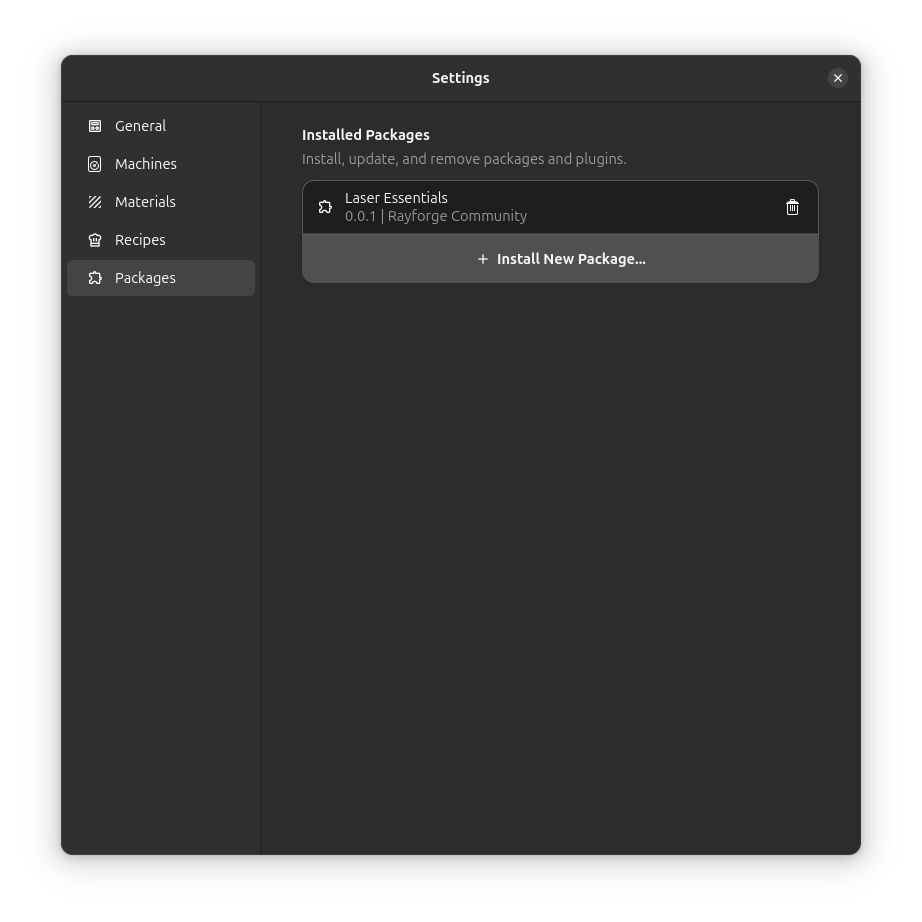
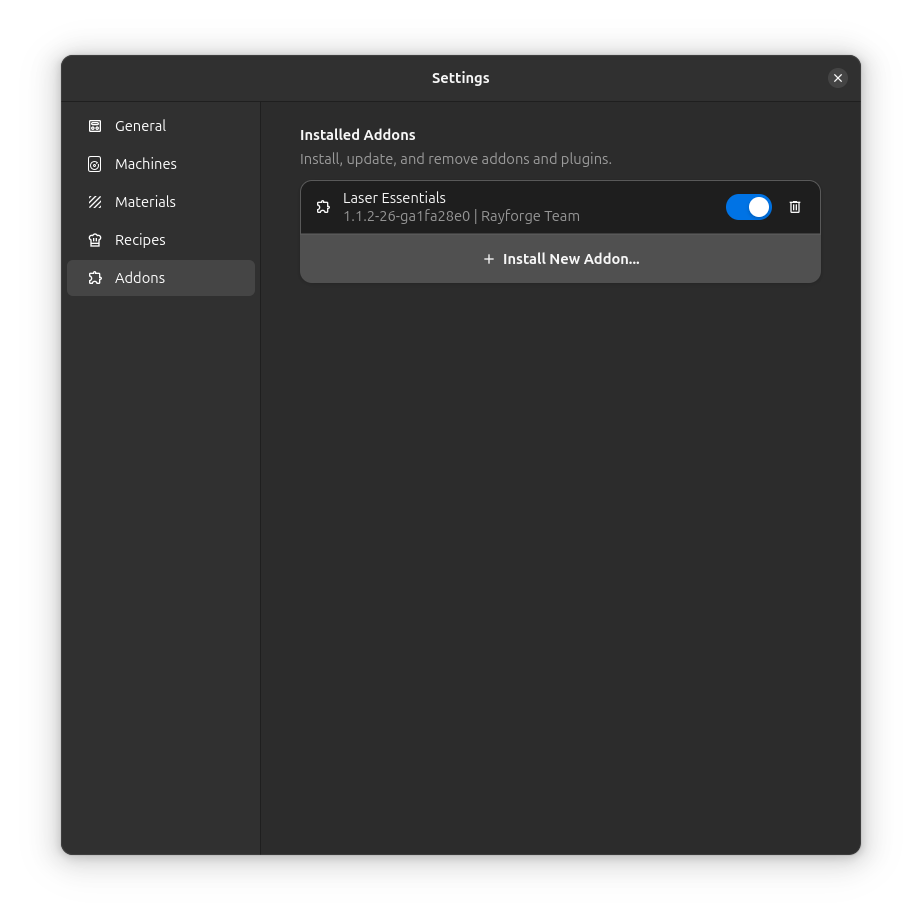
update screenshots

diff --git a/scripts/screenshot/step_settings.py b/scripts/screenshot/step_settings.py
@@ -39,7 +39,23 @@ def parse_target(target: str) -> tuple[str, str, str | None]:
 
 def set_engrave_mode(dialog, mode_name: str):
     """Set the engrave mode in the dialog's engraver widget."""
-    from rayforge.pipeline.producer.raster import DepthMode
+    from rayforge.pipeline.producer.registry import producer_registry
+
+    Rasterizer = producer_registry.get("Rasterizer")
+    if Rasterizer is None:
+        logger.error("Rasterizer not found in registry")
+        return False
+
+    DepthMode = getattr(Rasterizer, "__module__", None)
+    if DepthMode:
+        import importlib
+
+        module = importlib.import_module(DepthMode)
+        DepthMode = getattr(module, "DepthMode", None)
+
+    if DepthMode is None:
+        logger.error("DepthMode not found")
+        return False
 
     mode_enum = DepthMode[mode_name]
     mode_index = list(DepthMode).index(mode_enum)

diff --git a/scripts/screenshot/cli.py b/scripts/screenshot/cli.py
@@ -19,7 +19,7 @@ TARGETS = {
     "app-settings:machines": "app_settings_machines",
     "app-settings:materials": "app_settings_materials",
     "app-settings:recipes": "app_settings_recipes",
-    "app-settings:packages": "app_settings_packages",
+    "app-settings:addons": "app_settings_addons",
     "machine-settings:general": "machine_settings_general",
     "machine-settings:hardware": "machine_settings_hardware",
     "machine-settings:advanced": "machine_settings_advanced",

diff --git a/scripts/screenshot/app_settings_addons.py b/scripts/screenshot/app_settings_addons.py
@@ -7,7 +7,7 @@ from rayforge.uiscript import app, win
 from utils import open_app_settings, take_screenshot
 
 logger = logging.getLogger(__name__)
-PAGE = "packages"
+PAGE = "addons"
 
 
 def main():
